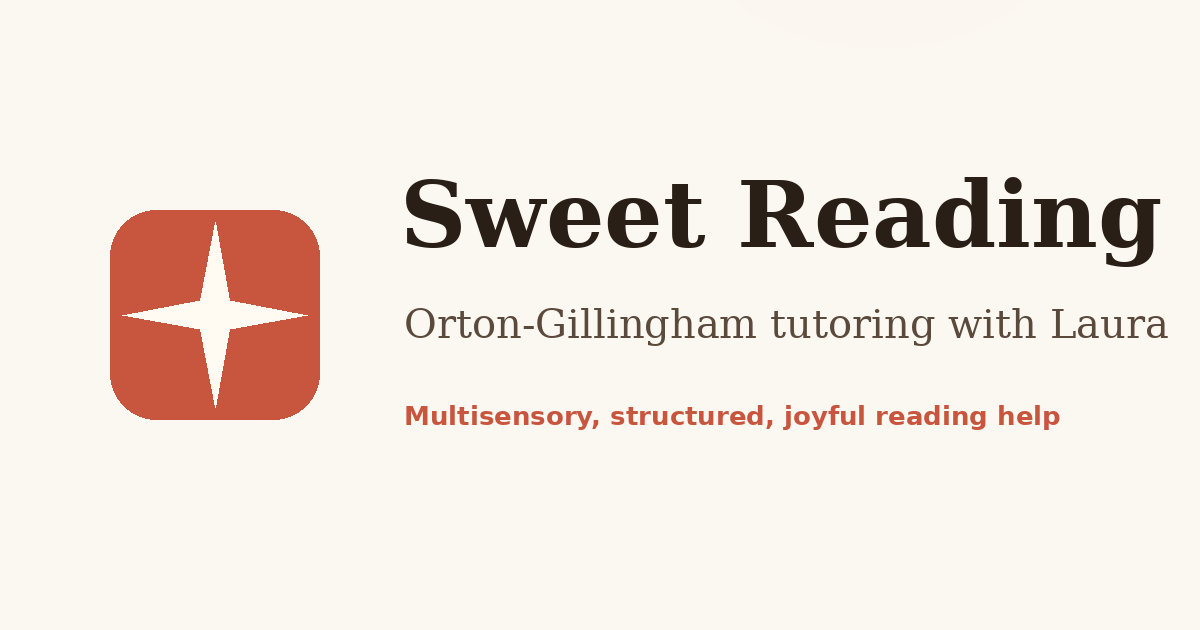
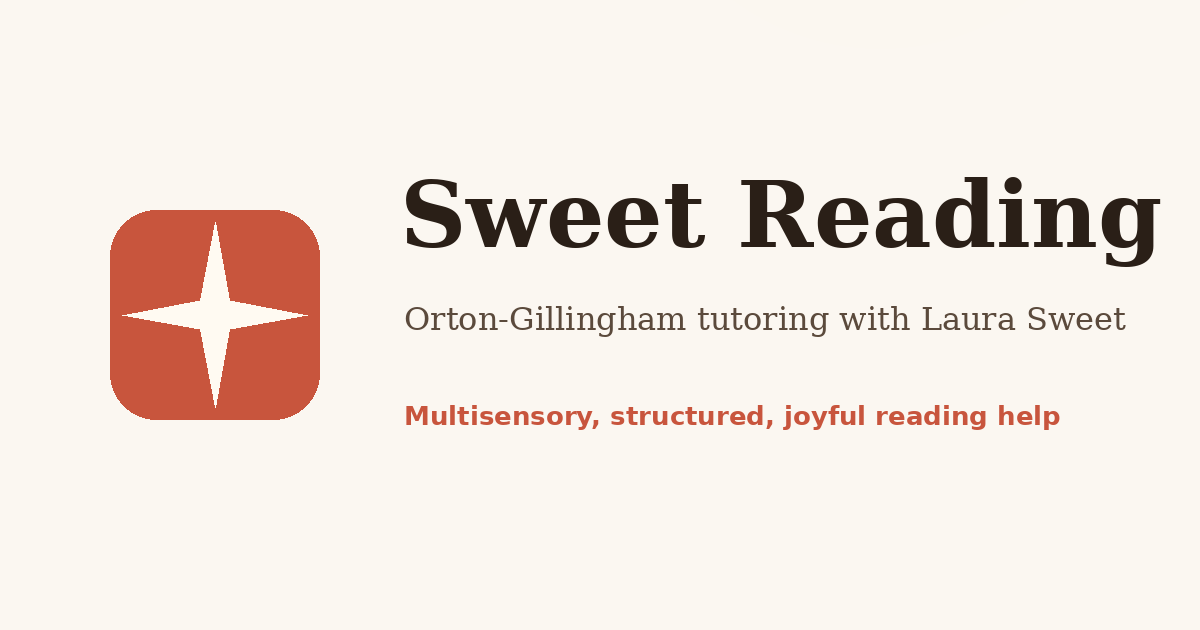
Use founder full name 'Laura Sweet'; replace $85 pricing with 'Call For Pricing'
- All Laura references (titles, About, FAQ, contact, chat bubble, testimonial) use full name
- Core Tutoring card now shows 'Call For Pricing' instead of the $85 rate
- Regenerate og-image.png with full name (auto-fit subheadline)

Changed region(s): [[0.3392, 0.4825, 0.9867, 0.5429]]

diff --git a/index.html b/index.html
@@ -3,7 +3,7 @@
 <head>
   <meta charset="UTF-8" />
   <meta name="viewport" content="width=device-width, initial-scale=1.0" />
-  <title>Sweet Reading — Orton-Gillingham Tutoring with Laura</title>
+  <title>Sweet Reading — Orton-Gillingham Tutoring with Laura Sweet</title>
   <meta name="description" content="Personalized, multisensory Orton-Gillingham tutoring for children with dyslexia. Serving the Tri-State area of Cincinnati, Ohio. Online services also available." />
   <meta name="theme-color" content="#c8553d" />
   <link rel="canonical" href="https://julianantoine.github.io/sweet-reading-rebuild/" />
@@ -12,12 +12,12 @@
   <link rel="apple-touch-icon" sizes="180x180" href="favicon-180.png" />
   <meta property="og:type" content="website" />
   <meta property="og:site_name" content="Sweet Reading" />
-  <meta property="og:title" content="Sweet Reading — Orton-Gillingham Tutoring with Laura" />
+  <meta property="og:title" content="Sweet Reading — Orton-Gillingham Tutoring with Laura Sweet" />
   <meta property="og:description" content="Personalized, multisensory Orton-Gillingham tutoring for children with dyslexia. Serving the Tri-State area of Cincinnati, Ohio. Online services also available." />
   <meta property="og:url" content="https://julianantoine.github.io/sweet-reading-rebuild/" />
   <meta property="og:image" content="https://julianantoine.github.io/sweet-reading-rebuild/og-image.png" />
   <meta name="twitter:card" content="summary_large_image" />
-  <meta name="twitter:title" content="Sweet Reading — Orton-Gillingham Tutoring with Laura" />
+  <meta name="twitter:title" content="Sweet Reading — Orton-Gillingham Tutoring with Laura Sweet" />
   <meta name="twitter:description" content="Personalized, multisensory Orton-Gillingham tutoring for children with dyslexia. Serving the Tri-State area of Cincinnati, Ohio. Online services also available." />
   <meta name="twitter:image" content="https://julianantoine.github.io/sweet-reading-rebuild/og-image.png" />
   <link rel="preconnect" href="https://fonts.googleapis.com" />
@@ -164,7 +164,7 @@
             <header class="service-head">
               <span class="badge">Most popular</span>
               <h3>Core Tutoring</h3>
-              <p class="price">$85 <span>/ 50-minute session</span></p>
+              <p class="price">Call For Pricing</p>
             </header>
             <ul class="check-list">
               <li>Custom scope &amp; sequence for your child</li>
@@ -188,13 +188,13 @@
               <img src="logo.jpg" alt="Sweet Reading Tutoring Services LLC logo" class="about-logo" />
             </div>
           </div>
-          <div class="photo-tag">Laura · Founder &amp; Tutor</div>
+          <div class="photo-tag">Laura Sweet · Founder &amp; Tutor</div>
         </div>
         <div class="about-copy">
-          <p class="eyebrow">About Laura</p>
+          <p class="eyebrow">About Laura Sweet</p>
           <h2 class="section-title">Patient, playful, and rigorous — in that order.</h2>
           <p>
-            Laura has spent more than a decade working alongside dyslexic learners and the
+            Laura Sweet has spent more than a decade working alongside dyslexic learners and the
             families who love them. With an M.Ed. in Reading and Orton-Gillingham
             certification, she pairs the science of reading with the kind of warmth that
             makes kids actually want to come back next week.
@@ -238,7 +238,7 @@
           <figure class="testimonial">
             <div class="stars" aria-label="5 out of 5 stars">★★★★★</div>
             <blockquote>
-              My kids loved Laura's vibrant style and creative approach — she turned math
+              My kids loved Laura Sweet's vibrant style and creative approach — she turned math
               and reading into exciting sidewalk chalk adventures. Learning outside brought
               the subjects to life, especially for my boys, who thrived with this
               hands-on, non-traditional method. I truly believe these experiences gave them
@@ -285,7 +285,7 @@
         <div class="faq-list">
           <details>
             <summary>Do we need a formal dyslexia diagnosis to start?</summary>
-            <p>No. A diagnosis can be helpful, but it isn't required to begin tutoring with Laura.</p>
+            <p>No. A diagnosis can be helpful, but it isn't required to begin tutoring with Laura Sweet.</p>
           </details>
           <details>
             <summary>How long do students usually work with you?</summary>
@@ -305,7 +305,7 @@
           </details>
           <details>
             <summary>Will you coordinate with our school?</summary>
-            <p>Happily. With your permission, Laura shares progress notes and collaborates with teachers and intervention specialists.</p>
+            <p>Happily. With your permission, Laura Sweet shares progress notes and collaborates with teachers and intervention specialists.</p>
           </details>
         </div>
       </div>
@@ -318,12 +318,12 @@
           <p class="eyebrow">Let's talk</p>
           <h2 class="section-title">Book a free 30-minute discovery call.</h2>
           <p class="lede">
-            A short, low-pressure conversation with Laura. Bring your questions, your
+            A short, low-pressure conversation with Laura Sweet. Bring your questions, your
             worries, and anything your child has told you about reading.
           </p>
           <ul class="contact-list">
             <li><span>Email</span><a href="mailto:contactus@sweetreading.us">contactus@sweetreading.us</a></li>
-            <!-- TODO: swap (937) 555-0100 for Laura's real number before launch -->
+            <!-- TODO: swap (937) 555-0100 for Laura Sweet's real number before launch -->
             <li><span>Phone</span><a href="tel:+19375550100">(937) 555-0100</a></li>
             <li><span>Location</span>Tri-State area of Cincinnati, Ohio. Online Services is also available</li>
           </ul>
@@ -347,7 +347,7 @@
             <textarea name="message" rows="4"></textarea>
           </label>
           <button type="submit" class="btn btn-primary">Request a call</button>
-          <p class="form-status" hidden>Thanks — Laura will be in touch within one business day.</p>
+          <p class="form-status" hidden>Thanks — Laura Sweet will be in touch within one business day.</p>
         </form>
       </div>
     </section>
@@ -395,8 +395,8 @@
     </div>
   </footer>
 
-  <button class="chat-bubble" aria-label="Chat with Laura">
-    <span>💬</span> Chat with Laura
+  <button class="chat-bubble" aria-label="Chat with Laura Sweet">
+    <span>💬</span> Chat with Laura Sweet
   </button>
 
   <script src="script.js" defer></script>
